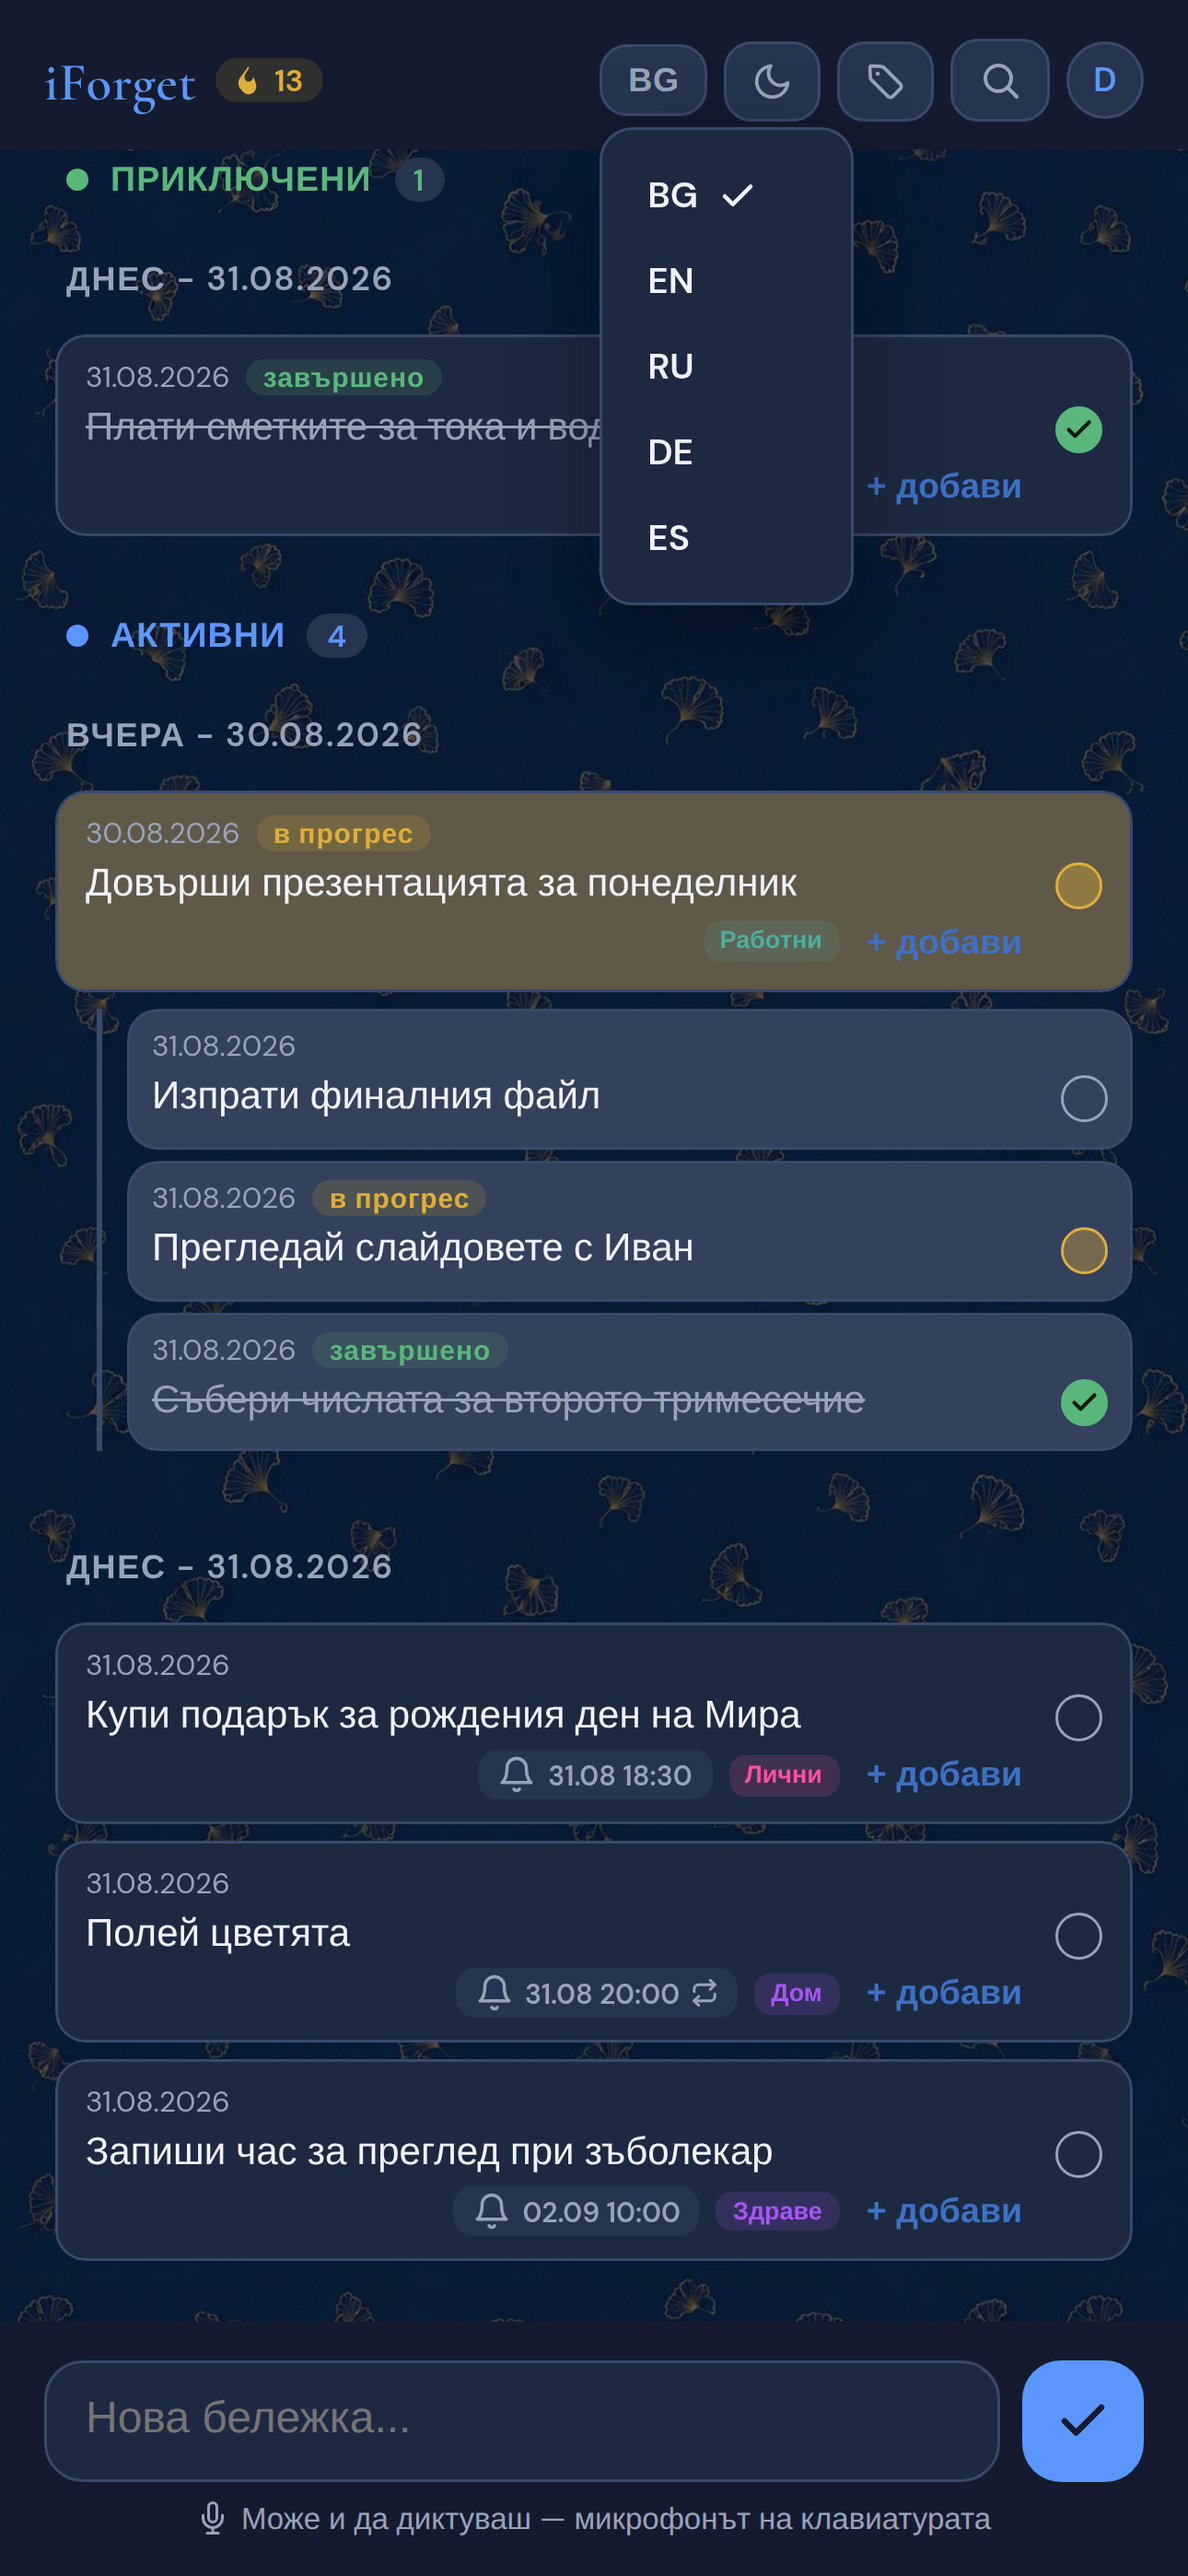
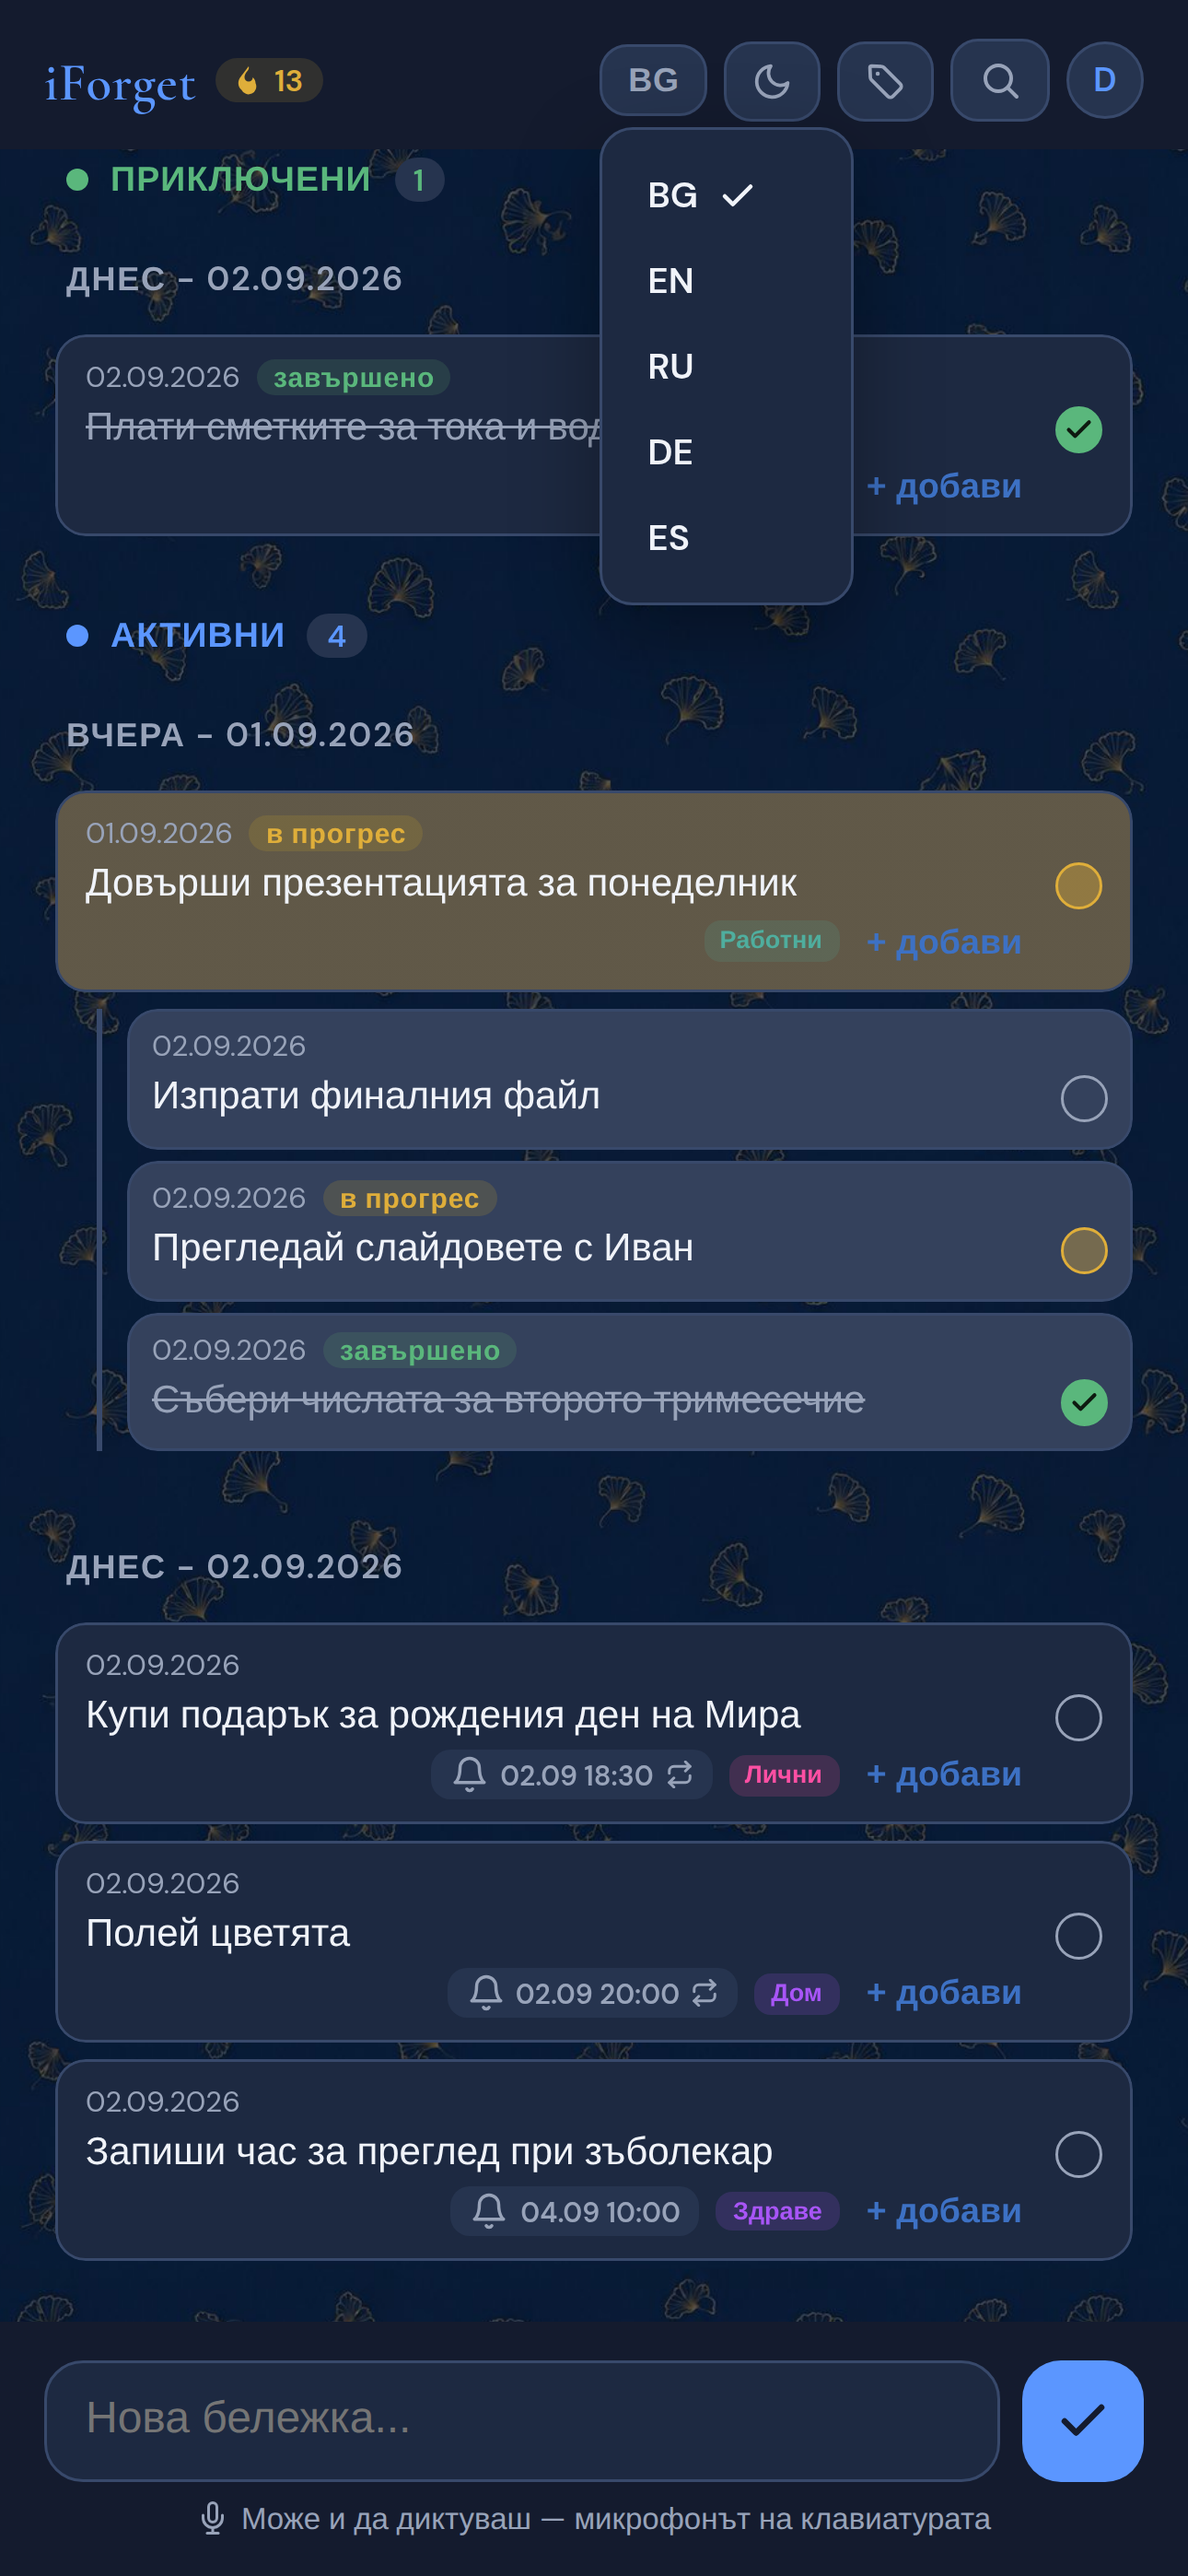
Нов екран за скрийншотите: "Продължи без акаунт" + месечно напомняне
- store/fbstub.js: window.__NO_USER кара onAuthStateChanged() да върне
  null, за да излезе истинският .auth-screen (вместо фалшив вход).
- store/generate.js:
  - нов кадър 7-guest.png (екранът за вход, бутонът "Продължи без
    акаунт"/"Continue without an account" — новата функция във версия
    1.0.1, дотогава не се виждаше в никоя снимка);
  - демо бележката "Купи подарък" вече е с reminderRepeat:'monthly',
    значи 5-reminder.png показва избран чипа "Всеки месец"/"Every
    month" (другата нова функция);
  - поправен реален бъг покрай горното: браузърът се стартираше
    ЕДИН път с LANG=bg_BG за всички кадри — датовото поле в
    английските (App Store) снимки показваше българското "г."
    (напр. "02.09.2026 г." вместо "09/02/2026"). Вече се стартира
    отделно за bg/en с правилния локал.
- Всички 12 стари + 2 нови снимки regenerated.

Claude-Session: https://claude.ai/code/session_01N35MJDiVUcCYo12z1tZSSX

diff --git a/store/generate.js b/store/generate.js
@@ -103,7 +103,7 @@ function buildSeed(code){
                     note({text:n[1].subs[1], status:'progress'}),
                     note({text:n[1].subs[2]}) ] }),
       note({ text:n[2].text, tag:n[2].tag,
-             reminderAt: at(0, 18, 30), createdAt: at(0, 9, 5) }),
+             reminderAt: at(0, 18, 30), reminderRepeat:'monthly', createdAt: at(0, 9, 5) }),
       note({ text:n[3].text, tag:n[3].tag, reminderAt: at(0, 20, 0),
              reminderRepeat:'daily', createdAt: at(0, 9, 20) }),
       note({ text:n[4].text, tag:n[4].tag,
@@ -164,6 +164,25 @@ async function newPage(ctx, code, extraNotes){
   return page;
 }
 
+// Отделен вариант БЕЗ влязъл потребител — за кадъра с "Продължи без
+// акаунт" (виж window.__NO_USER в fbstub.js). Не се стъпват бележки/
+// notes, значи не се чака '.note' — чака се самата auth карта.
+async function newAuthPage(ctx, code){
+  const page = await ctx.newPage();
+  await page.addInitScript(`try{ localStorage.setItem('lang', ${JSON.stringify(code)}); }catch(e){}\nwindow.__NO_USER = true;\n${STUB}`);
+  await page.route('**/www.gstatic.com/firebasejs/**', r => r.abort());
+  await page.route('**/fonts.googleapis.com/**', route => {
+    const url = route.request().url();
+    const woff = url.match(/([^/?]+\.woff2)/);
+    if(woff) return route.fulfill({ contentType:'font/woff2', body: fs.readFileSync(path.join(FONTS, woff[1])) });
+    return route.fulfill({ contentType:'text/css', body: fs.readFileSync(path.join(FONTS, 'fonts.css'), 'utf8') });
+  });
+  await page.goto(BASE, { waitUntil: 'load' });
+  await page.waitForSelector('#authGuestBtn', { timeout: 15000 });
+  await page.waitForTimeout(900); // шрифтове + анимации
+  return page;
+}
+
 
 // Взима .note-wrap на конкретна бележка по текста ѝ — по-надеждно от
 // "първата в списъка" (тя е приключената, а менюто ѝ показва рядкото
@@ -187,14 +206,22 @@ let BASE;
   // "21.08.2026 г. 18:30", както я вижда български потребител.
   // ПРОВЕРЕНО: само args:['--lang=bg-BG'] НЕ стига — решаващата е
   // env-променливата LANG; --lang остава, защото не пречи.
+  // РЕАЛЕН БЪГ (хванат при добавянето на "7-guest.png"): браузърът се
+  // стартираше ЕДИН път, винаги с LANG=bg_BG — датовото поле в АНГЛИЙСКИТЕ
+  // кадри (за App Store) показваше "02.09.2026 г." с българското "г."
+  // Затова браузърът вече се стартира ОТДЕЛНО за всеки език (виж
+  // launchBrowser() и цикъла по LANGS по-долу), с LANG, съответен на
+  // самия набор снимки.
   // PW_CHROMIUM — аварийна пътечка за среда, в която Playwright пакетът и
   // свалените браузъри са различни версии (тогава launch() гърми с
   // "Executable doesn't exist"). Празна е при нормална употреба.
-  const browser = await chromium.launch({
-    args: ['--lang=bg-BG'],
-    env: { ...process.env, LANG: 'bg_BG.UTF-8', LANGUAGE: 'bg_BG' },
-    ...(process.env.PW_CHROMIUM ? { executablePath: process.env.PW_CHROMIUM } : {}),
-  });
+  function launchBrowser(langTag){
+    return chromium.launch({
+      args: [`--lang=${langTag.replace('_', '-')}`],
+      env: { ...process.env, LANG: langTag + '.UTF-8', LANGUAGE: langTag },
+      ...(process.env.PW_CHROMIUM ? { executablePath: process.env.PW_CHROMIUM } : {}),
+    });
+  }
   // Един и същ набор от пет кадъра се прави за два размера — виж SIZES
   // по-долу. Приложението е сглобено за iPhone И iPad
   // (`TARGETED_DEVICE_FAMILY = "1,2"` в iOS проекта), а App Store иска
@@ -258,6 +285,13 @@ let BASE;
     await page.waitForTimeout(700);
     await shot(page, '6-review.png');
     await page.close();
+
+    // 7. Екран за вход — бутонът "Продължи без акаунт". Новото в тая
+    // версия (виж release notes), затова получава собствен кадър — на
+    // главния списък/менюто нищо не намеква, че акаунт изобщо не е нужен.
+    page = await newAuthPage(ctx, code);
+    await shot(page, '7-guest.png');
+    await page.close();
   }
 
   // 430×932 @3 = 1290×2796 — приема се и от App Store (6.9"/6.7"), и от
@@ -273,8 +307,8 @@ let BASE;
   // където листингът Е на английски — виж store/status.md). Всеки в своя
   // папка, за да не се презаписват.
   const LANGS = [
-    { code: 'bg', dir: OUT,           locale: 'bg-BG' },
-    { code: 'en', dir: OUT + '-en',   locale: 'en-US' },
+    { code: 'bg', dir: OUT,           locale: 'bg-BG', browserLang: 'bg_BG' },
+    { code: 'en', dir: OUT + '-en',   locale: 'en-US', browserLang: 'en_US' },
   ];
 
   // 430×932 @3 = 1290×2796 — приема се и от App Store (6.9"/6.7"), и от
@@ -294,6 +328,7 @@ let BASE;
   }
 
   for(const l of LANGS){
+    const browser = await launchBrowser(l.browserLang);
     for(const s of SIZES){
       const ctx = await browser.newContext({
         viewport: s.viewport,
@@ -304,10 +339,14 @@ let BASE;
       await captureSet(ctx, l.dir + s.suffix, l.code);
       await ctx.close();
     }
+    await browser.close();
   }
 
   // --- Банер за Google Play (feature graphic, точно 1024×500) ---------
-  const bctx = await browser.newContext({ viewport:{width:1024, height:500}, deviceScaleFactor:1, locale:'bg-BG' });
+  // Банерът е само на български, значи си иска собствен bg_BG браузър —
+  // тия по-горе вече са затворени след цикъла им.
+  const banBrowser = await launchBrowser('bg_BG');
+  const bctx = await banBrowser.newContext({ viewport:{width:1024, height:500}, deviceScaleFactor:1, locale:'bg-BG' });
   const bpage = await bctx.newPage();
   await bpage.route('**/fonts.googleapis.com/**', route => {
     const woff = route.request().url().match(/([^/?]+\.woff2)/);
@@ -318,8 +357,8 @@ let BASE;
   await bpage.waitForTimeout(900);
   await bpage.screenshot({ path: path.join(__dirname, 'banner.png') });
   await bctx.close();
+  await banBrowser.close();
 
-  await browser.close();
   srv.close();
   console.log('Готово — скрийншоти в store/screenshots/, банер в store/banner.png');
 })().catch(e => { console.error(e); process.exit(1); });

diff --git a/store/fbstub.js b/store/fbstub.js
@@ -10,6 +10,12 @@
   // Документът users/{uid}, който loadFromCloud() ще прочете.
   const docData = window.__SEED_DOC || { notes: [], onboarded: true };
 
+  // window.__NO_USER — за скрийншота на екрана за вход/"Продължи без
+  // акаунт" (виж store/generate.js). Обикновено стъпва fалшив ВЛЯЗЪЛ
+  // потребител, но за тоя единствен кадър трябва точно обратното —
+  // onAuthStateChanged(null), за да излезе истинският .auth-screen.
+  const demoUser = window.__NO_USER ? null : { uid: 'demo', email: 'demo@iforget.eu', emailVerified: true };
+
   function docRef(){
     return {
       get: () => resolved({
@@ -25,11 +31,11 @@
   window.firebase = {
     initializeApp: noop,
     auth: Object.assign(() => ({
-      currentUser: { uid: 'demo', email: 'demo@iforget.eu', emailVerified: true },
+      currentUser: demoUser,
       onAuthStateChanged(cb){
         // Асинхронно, както прави истинският SDK — синхронен вик би
         // изпреварил деклариране на променливи по-долу във файла.
-        setTimeout(() => cb({ uid: 'demo', email: 'demo@iforget.eu', emailVerified: true }), 0);
+        setTimeout(() => cb(demoUser), 0);
         return noop;
       },
       signOut: () => resolved(),
